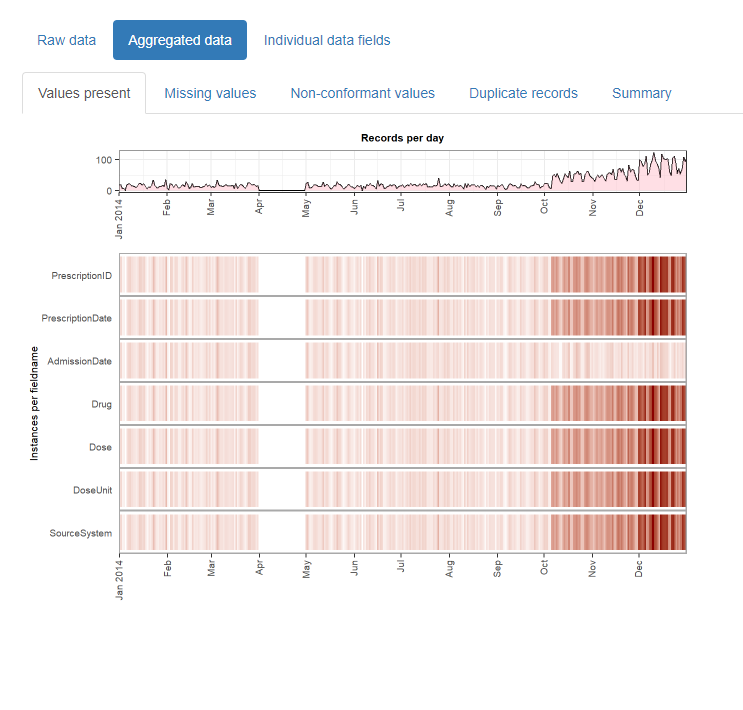
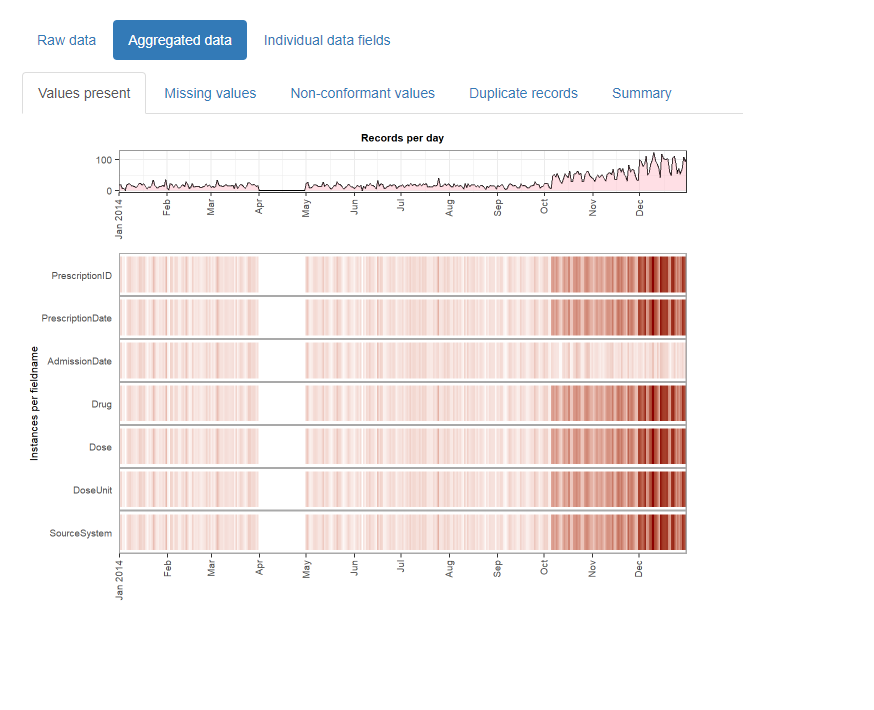
Adjust images

diff --git a/README.md b/README.md
@@ -16,7 +16,7 @@ Essentially, it takes input such as this:
 
 And outputs this:
 
-<img src="man/figures/abx2014_aggregated_valuespresent.png" height="350" /><img src="man/figures/abx2014_allfields_missing_perc.png" height="350" />
+<img src="man/figures/abx2014_aggregated_valuespresent.png" width="350" /><img src="man/figures/abx2014_allfields_missing_perc.png" width="350" />
 
 The resulting html reports are sharable and can contribute to forming a
 transparent record of the entire analysis process. It is designed with
